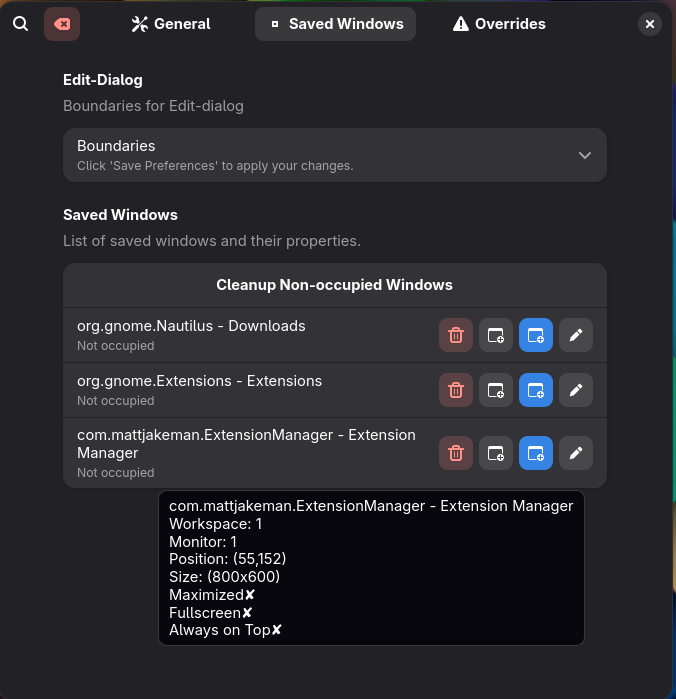
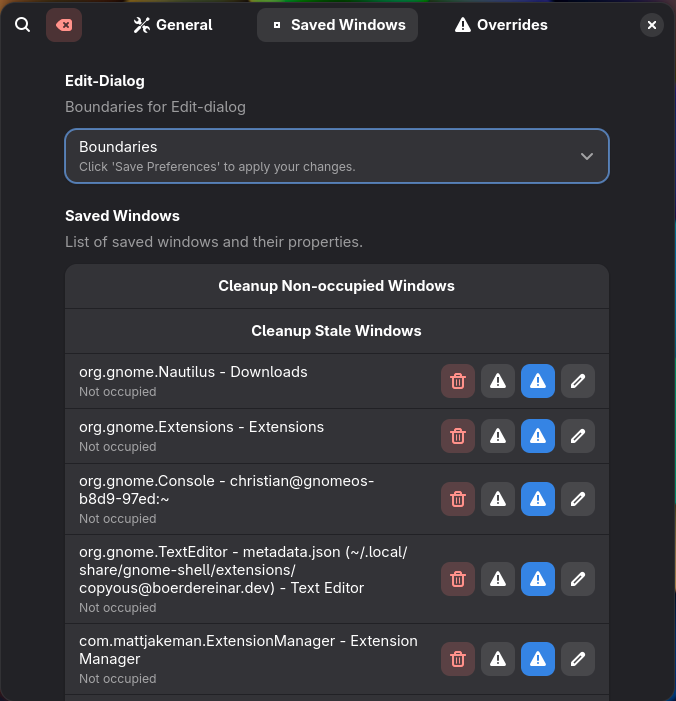
feat(settings): Add min/max range for stale window days and update UI constraints feat(cleanup): Ensure settings are flushed before cleanup operations test(cleanup): Add test for cleanup of stale saved windows chore(docs): Update screenshots for new settings and UI changes

diff --git a/[email redacted]/test/common.test.js b/[email redacted]/test/common.test.js
@@ -279,3 +279,24 @@ function createStringSetting(initialValue) {
         settings.get_string()
     );
 }
+
+{
+    const dayMs = 24 * 60 * 60 * 1000;
+    const now = 40 * dayMs;
+    const settings = createStringSetting(
+        JSON.stringify({
+            recent: [{ title: "Recent", occupied: false, last_seen: now - dayMs / 2 }],
+            old: [{ title: "Old", occupied: false, last_seen: now - 2 * dayMs }],
+        })
+    );
+
+    Common.cleanupStaleSavedWindows(settings, -1, now);
+
+    console.assert(
+        settings.get_string() ===
+            JSON.stringify({
+                recent: [{ title: "Recent", occupied: false, last_seen: now - dayMs / 2 }],
+            }),
+        settings.get_string()
+    );
+}

diff --git a/[email redacted]/extension.js b/[email redacted]/extension.js
@@ -37,10 +37,14 @@ const SmartAutoMoveNGMenuToggle = GObject.registerClass(
             const popupMenuExpander = new PopupMenu.PopupSubMenuMenuItem(_("Saved Windows"));
             this.menu.addMenuItem(popupMenuExpander);
             const submenu = new PopupMenu.PopupMenuItem(_("Cleanup Non-occupied Windows"));
-            submenu.connect("activate", Common.cleanupNonOccupiedWindows.bind(this, _settings));
+            submenu.connect("activate", () => {
+                extension._flushQueuedSaveSettings();
+                Common.cleanupNonOccupiedWindows(_settings);
+            });
             popupMenuExpander.menu.addMenuItem(submenu);
             const staleSubmenu = new PopupMenu.PopupMenuItem(_("Cleanup Stale Windows"));
             staleSubmenu.connect("activate", () => {
+                extension._flushQueuedSaveSettings();
                 Common.cleanupStaleSavedWindows(_settings);
             });
             popupMenuExpander.menu.addMenuItem(staleSubmenu);
@@ -232,9 +236,6 @@ export default class SmartAutoMoveNG extends Extension {
         this._pendingWindows = null;
         this._pendingWindowSignals.clear();
         this._pendingWindowSignals = null;
-        //remove timeout signals
-        if (this._timeoutSaveSignal !== null) GLib.Source.remove(this._timeoutSaveSignal);
-        this._timeoutSaveSignal = null;
         this._cancelActiveRestores();
         this._moveWindowDelays.clear();
         this._moveWindowDelays = null;
@@ -256,7 +257,7 @@ export default class SmartAutoMoveNG extends Extension {
         this._overridesCount = null;
         this._finalMenuIcon = null;
 
-        this._saveSettings();
+        this._flushQueuedSaveSettings();
         this._cleanupSettings();
         this._activeWindows = null;
         this._indicator?.destroy();
@@ -585,6 +586,15 @@ export default class SmartAutoMoveNG extends Extension {
         this._debug("_saveSettings()");
         this._dumpSavedWindows();
         this._settings.set_string(Common.SETTINGS_KEY_SAVED_WINDOWS, newSavedWindows);
+    }
+
+    _flushQueuedSaveSettings() {
+        if (this._timeoutSaveSignal !== null) {
+            GLib.Source.remove(this._timeoutSaveSignal);
+            this._timeoutSaveSignal = null;
+        }
+
+        this._saveSettings();
     }
 
     //// WINDOW UTILITIES

diff --git a/[email redacted]/lib/common.js b/[email redacted]/lib/common.js
@@ -29,6 +29,8 @@ export const SYNC_MODE_RESTORE = 1;
 
 export const STALE_SAVED_WINDOW_DAYS = 30;
 export const STALE_SAVED_WINDOW_MS = STALE_SAVED_WINDOW_DAYS * 24 * 60 * 60 * 1000;
+export const STALE_SAVED_WINDOW_DAYS_MIN = 1;
+export const STALE_SAVED_WINDOW_DAYS_MAX = 365;
 
 function levensteinDistance(a, b) {
     const m = [],
@@ -162,6 +164,7 @@ export function cleanupNonOccupiedWindows(settings) {
 export function cleanupStaleSavedWindows(settings, maxAgeDays = settings.get_int(SETTINGS_KEY_STALE_WINDOW_DAYS), now = Date.now()) {
     if (typeof maxAgeDays !== "number") maxAgeDays = settings.get_int(SETTINGS_KEY_STALE_WINDOW_DAYS);
     if (typeof now !== "number") now = Date.now();
+    maxAgeDays = Math.min(Math.max(maxAgeDays, STALE_SAVED_WINDOW_DAYS_MIN), STALE_SAVED_WINDOW_DAYS_MAX);
 
     const cutoff = now - maxAgeDays * 24 * 60 * 60 * 1000;
     const saved_windows = JSON.parse(settings.get_string(SETTINGS_KEY_SAVED_WINDOWS));